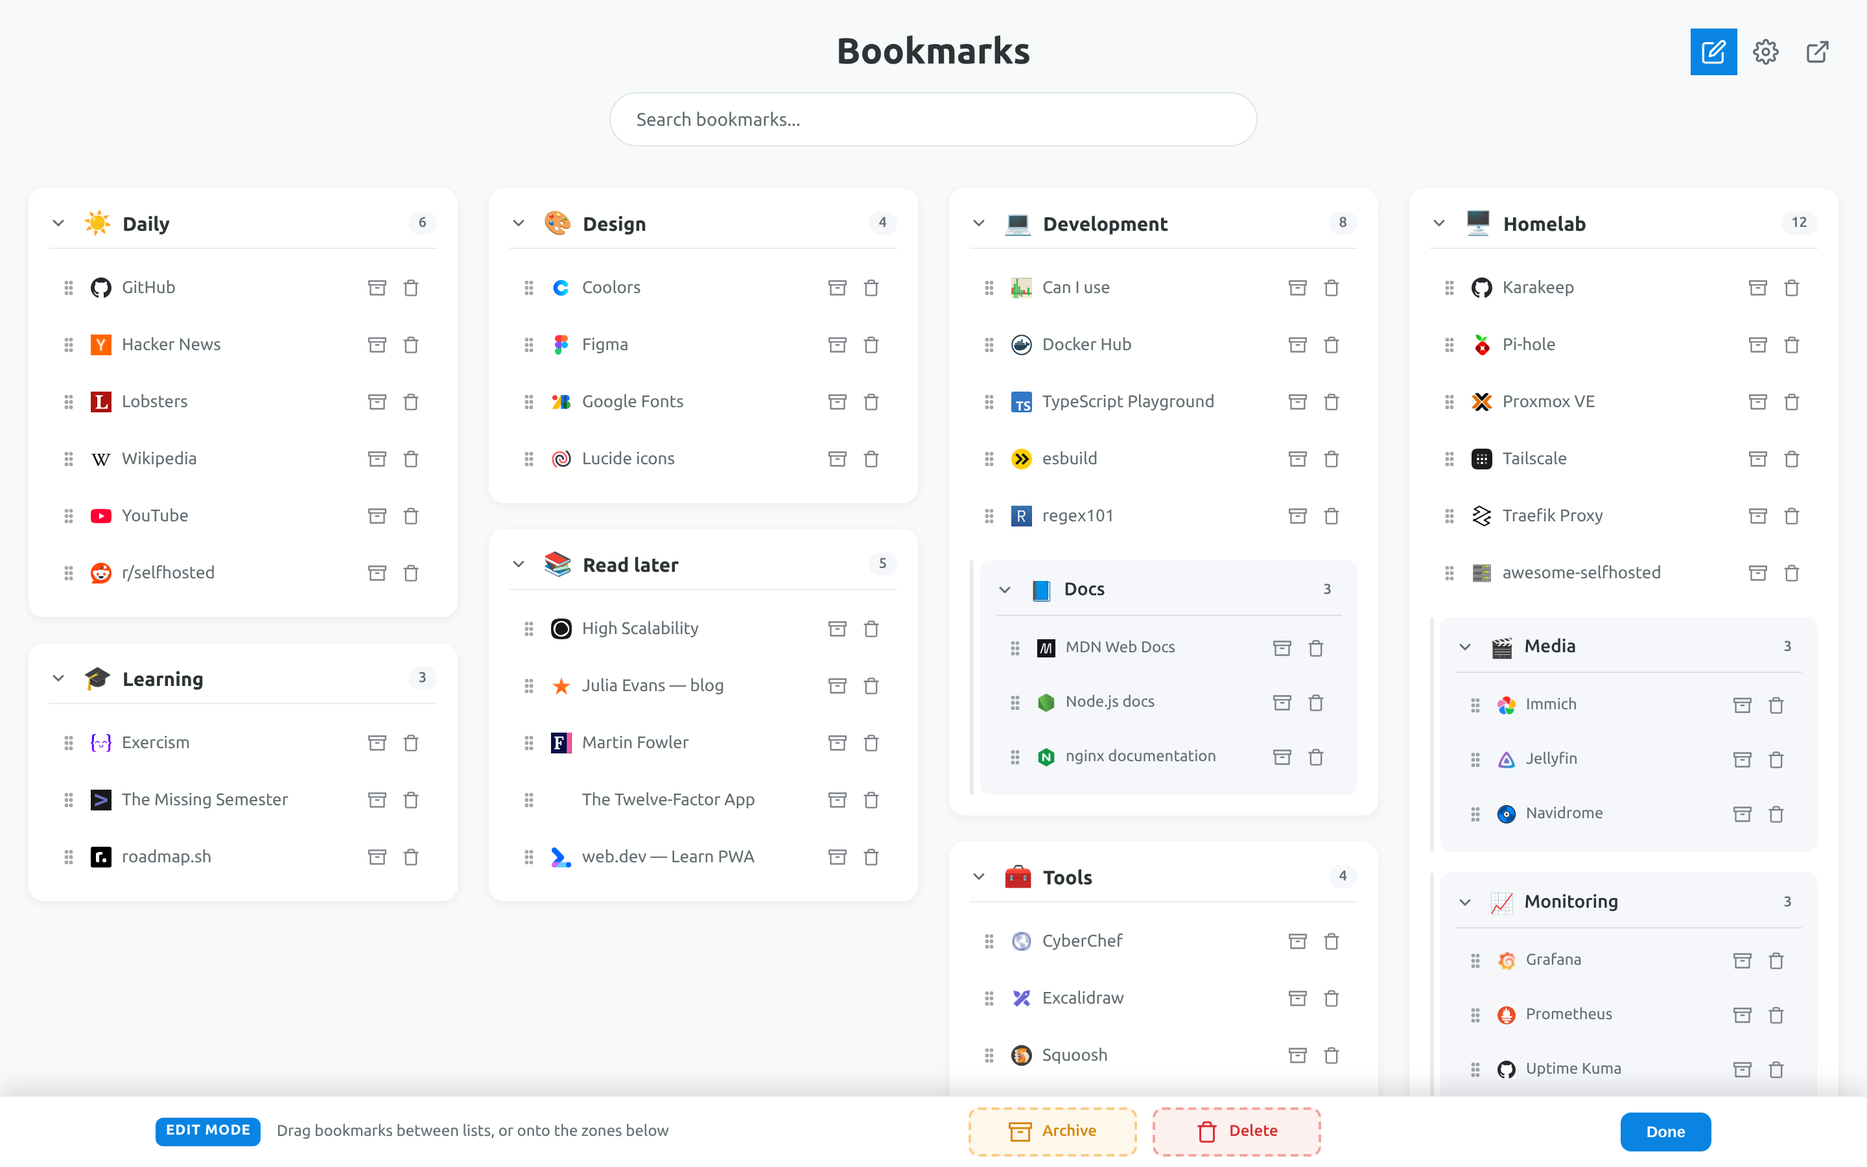
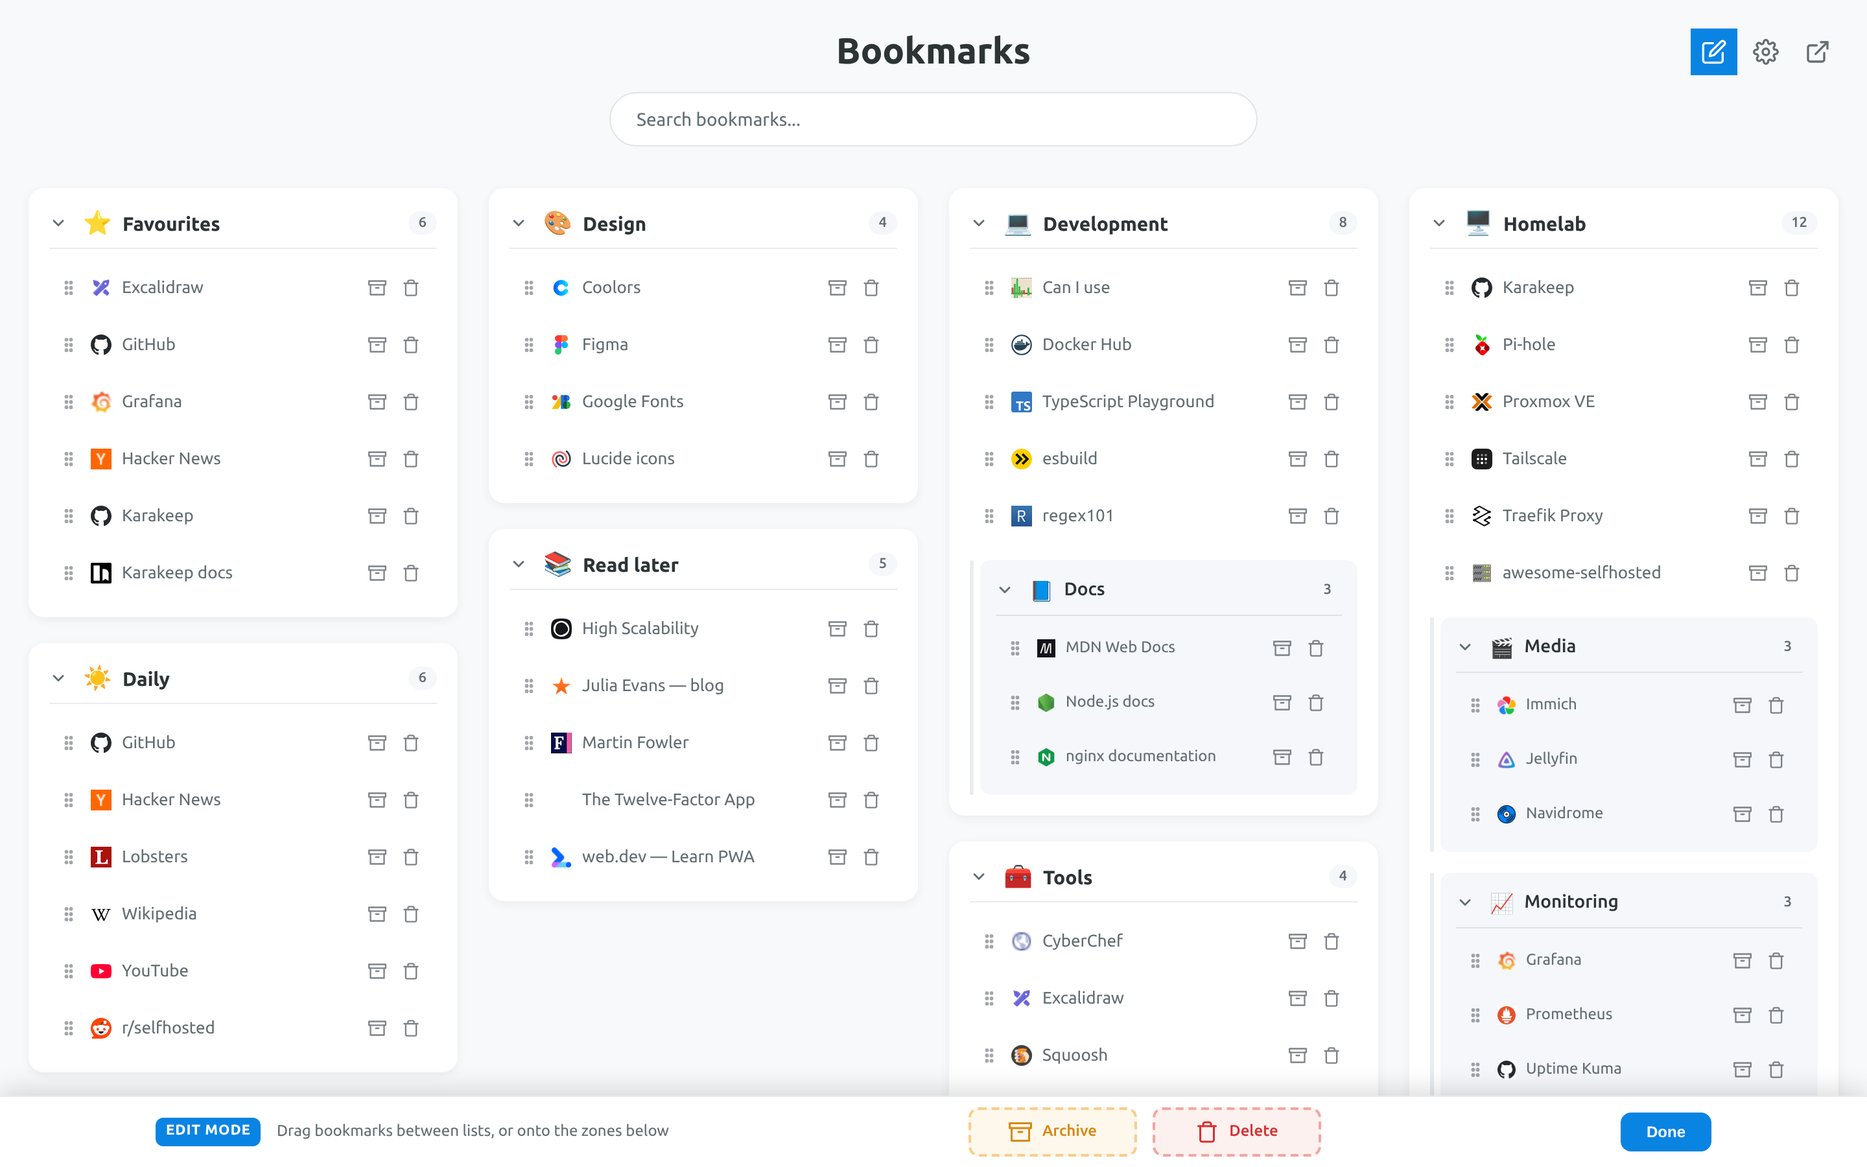
Add an optional favourites card
Favourited bookmarks are fetched with one extra request on a full refresh
(GET /bookmarks?favourited=true), only when the new "Show favourites"
setting is on, so they include bookmarks that are in no list. numFavorites
is already part of the fingerprint, so the cheap check notices changes.

They render as a virtual list of type 'favourites': pinned to the top of
the first column until the user drags it, never a drag source or target in
edit mode. The demo enables it on a visitor's first load, and the README
screenshots are regenerated.

Closes #7

diff --git a/src/demo.ts b/src/demo.ts
@@ -12,7 +12,9 @@ export const DEMO_BASE_URL = 'https://demo.karakeep.invalid';
 export const DEMO_API_KEY = 'demo';
 
 interface Seed {
-    list: string;
+    /** null: in no list — reachable only through favourites or search. */
+    list: string | null;
+    favourite?: boolean;
     title: string;
     url: string;
     tags?: string[];
@@ -33,13 +35,13 @@ const LISTS: ApiList[] = [
 ];
 
 const SEEDS: Seed[] = [
-    { list: 'daily', title: 'Hacker News', url: 'https://news.ycombinator.com', tags: ['news'] },
-    { list: 'daily', title: 'GitHub', url: 'https://github.com', tags: ['dev'] },
+    { list: 'daily', title: 'Hacker News', url: 'https://news.ycombinator.com', tags: ['news'], favourite: true },
+    { list: 'daily', title: 'GitHub', url: 'https://github.com', tags: ['dev'], favourite: true },
     { list: 'daily', title: 'r/selfhosted', url: 'https://www.reddit.com/r/selfhosted', tags: ['community'] },
     { list: 'daily', title: 'Lobsters', url: 'https://lobste.rs', tags: ['news'] },
     { list: 'daily', title: 'Wikipedia', url: 'https://en.wikipedia.org' },
     { list: 'daily', title: 'YouTube', url: 'https://www.youtube.com' },
-    { list: 'homelab', title: 'Karakeep', url: 'https://github.com/karakeep-app/karakeep', tags: ['bookmarks', 'self-hosted'], description: 'The bookmark-everything app' },
+    { list: 'homelab', title: 'Karakeep', url: 'https://github.com/karakeep-app/karakeep', tags: ['bookmarks', 'self-hosted'], description: 'The bookmark-everything app', favourite: true },
     { list: 'homelab', title: 'Proxmox VE', url: 'https://www.proxmox.com', tags: ['virtualization'] },
     { list: 'homelab', title: 'Tailscale', url: 'https://tailscale.com', tags: ['vpn', 'network'] },
     { list: 'homelab', title: 'Traefik Proxy', url: 'https://traefik.io', tags: ['reverse-proxy'] },
@@ -48,7 +50,7 @@ const SEEDS: Seed[] = [
     { list: 'homelab-media', title: 'Jellyfin', url: 'https://jellyfin.org', tags: ['media'] },
     { list: 'homelab-media', title: 'Immich', url: 'https://immich.app', tags: ['photos'] },
     { list: 'homelab-media', title: 'Navidrome', url: 'https://www.navidrome.org', tags: ['music'] },
-    { list: 'homelab-monitoring', title: 'Grafana', url: 'https://grafana.com', tags: ['monitoring'] },
+    { list: 'homelab-monitoring', title: 'Grafana', url: 'https://grafana.com', tags: ['monitoring'], favourite: true },
     { list: 'homelab-monitoring', title: 'Uptime Kuma', url: 'https://github.com/louislam/uptime-kuma', tags: ['monitoring'] },
     { list: 'homelab-monitoring', title: 'Prometheus', url: 'https://prometheus.io', tags: ['monitoring'] },
     { list: 'dev', title: 'TypeScript Playground', url: 'https://www.typescriptlang.org/play', tags: ['typescript'] },
@@ -69,12 +71,13 @@ const SEEDS: Seed[] = [
     { list: 'design', title: 'Coolors', url: 'https://coolors.co', tags: ['colors'] },
     { list: 'design', title: 'Google Fonts', url: 'https://fonts.google.com', tags: ['fonts'] },
     { list: 'tools', title: 'CyberChef', url: 'https://gchq.github.io/CyberChef/', tags: ['tools'] },
-    { list: 'tools', title: 'Excalidraw', url: 'https://excalidraw.com', tags: ['diagrams'] },
+    { list: 'tools', title: 'Excalidraw', url: 'https://excalidraw.com', tags: ['diagrams'], favourite: true },
     { list: 'tools', title: 'crontab.guru', url: 'https://crontab.guru', tags: ['cron'] },
     { list: 'tools', title: 'Squoosh', url: 'https://squoosh.app', tags: ['images'] },
     { list: 'learning', title: 'Exercism', url: 'https://exercism.org', tags: ['practice'] },
     { list: 'learning', title: 'roadmap.sh', url: 'https://roadmap.sh', tags: ['career'] },
     { list: 'learning', title: 'The Missing Semester', url: 'https://missing.csail.mit.edu', tags: ['cli'] },
+    { list: null, title: 'Karakeep docs', url: 'https://docs.karakeep.app', tags: ['docs'], favourite: true },
 ];
 
 function seedStore() {
@@ -87,10 +90,11 @@ function seedStore() {
             createdAt: new Date(Date.UTC(2026, 0, 1 + i)).toISOString(),
             title: seed.title,
             archived: false,
+            favourited: seed.favourite ?? false,
             tags: (seed.tags ?? []).map((name) => ({ id: `tag-${name}`, name, attachedBy: 'human' })),
             content: { type: 'link', url: seed.url, title: seed.title, description: seed.description ?? null },
         });
-        membership.get(seed.list)!.push(id);
+        if (seed.list) membership.get(seed.list)!.push(id);
     });
     return { bookmarks, membership };
 }
@@ -113,6 +117,7 @@ export function createDemoClient(): KarakeepClient {
             (membership.get(listId) ?? [])
                 .map((id) => bookmarks.get(id))
                 .filter((b): b is ApiBookmark => b !== undefined && !b.archived),
+        getFavouriteBookmarks: async () => [...bookmarks.values()].filter((b) => b.favourited && !b.archived),
         searchBookmarks: async (query) => {
             const q = query.toLowerCase();
             return [...bookmarks.values()].filter((b) => {

diff --git a/src/main.ts b/src/main.ts
@@ -11,6 +11,7 @@ import {
     FULL_REFETCH_TTL_MS,
     CACHE_MAX_AGE_MS,
     SCHEMA_VERSION,
+    FAVOURITES_LIST,
     REPO_URL,
 } from './config.ts';
 import { createDemoClient, DEMO_API_KEY, DEMO_BASE_URL } from './demo.ts';
@@ -149,6 +150,7 @@ function currentGrid(snapshot: Snapshot) {
     const roots = buildTree(snapshot, {
         includeSmartLists: state.prefs.includeSmartLists,
         showEmptyLists: state.editMode,
+        showFavourites: state.prefs.showFavourites,
     });
     return renderGrid(distributeColumns(roots, state.prefs), renderOptions());
 }
@@ -491,7 +493,9 @@ function currentServerId(): string {
 async function fetchEverything(client: KarakeepClient, lists: readonly List[]) {
     const results = await mapWithConcurrency(lists, FANOUT_CONCURRENCY, async (list) => ({
         listId: list.id,
-        bookmarks: (await client.getListBookmarks(list.id)).map(normalizeBookmark).filter((b) => b !== null),
+        bookmarks: (list.type === 'favourites' ? await client.getFavouriteBookmarks() : await client.getListBookmarks(list.id))
+            .map(normalizeBookmark)
+            .filter((b) => b !== null),
     }));
 
     const perList: PerList[] = [];
@@ -550,9 +554,12 @@ async function revalidate({ force = false }: { force?: boolean } = {}): Promise<
             return; // Two requests, no DOM work, done.
         }
 
-        const { perList, failed } = await fetchEverything(client, lists);
+        // The virtual favourites list rides along with the fan-out (and its failure
+        // handling) but is left out of the fingerprint: `numFavorites` already is.
+        const allLists = state.prefs.showFavourites ? [{ ...FAVOURITES_LIST }, ...lists] : lists;
+        const { perList, failed } = await fetchEverything(client, allLists);
         const next = buildSnapshot({
-            lists,
+            lists: allLists,
             perList,
             fingerprint,
             serverId: currentServerId(),
@@ -567,7 +574,7 @@ async function revalidate({ force = false }: { force?: boolean } = {}): Promise<
 
         hideBanner();
         if (failed.length) {
-            showToast(`${failed.length} of ${lists.length} lists failed to refresh.`, { kind: 'warn' });
+            showToast(`${failed.length} of ${allLists.length} lists failed to refresh.`, { kind: 'warn' });
         } else if (changed && previous) {
             showToast('Bookmarks updated.');
         }
@@ -713,6 +720,7 @@ async function onSettingsSubmit(event: Event): Promise<void> {
     const collapseListsByDefault = (document.getElementById('settingsCollapseLists') as HTMLInputElement).checked;
     const collapseSublistsByDefault = (document.getElementById('settingsCollapseSublists') as HTMLInputElement).checked;
     const showBookmarkCounts = (document.getElementById('settingsShowCounts') as HTMLInputElement).checked;
+    const showFavourites = (document.getElementById('settingsFavourites') as HTMLInputElement).checked;
     const numColumns = clampColumns((document.getElementById('settingsColumns') as HTMLInputElement).value);
 
     let baseUrl: string;
@@ -762,6 +770,7 @@ async function onSettingsSubmit(event: Event): Promise<void> {
         collapseListsByDefault,
         collapseSublistsByDefault,
         showBookmarkCounts,
+        showFavourites,
         numColumns,
     });
 
@@ -916,6 +925,16 @@ async function boot(): Promise<void> {
     state.creds = readCredentials();
     if (__DEMO__) {
         if (!state.creds?.apiKey) state.creds = { baseUrl: DEMO_BASE_URL, apiKey: DEMO_API_KEY, userId: 'demo-user' };
+        // Show off the optional favourites card on a visitor's first load only, so
+        // turning it off in settings sticks.
+        try {
+            if (!localStorage.getItem('kkhd.demo.seeded')) {
+                localStorage.setItem('kkhd.demo.seeded', '1');
+                state.prefs = updatePrefs({ showFavourites: true });
+            }
+        } catch {
+            /* storage disabled: the demo still works, just without favourites */
+        }
         showDemoNotice();
     }
     wireChrome();

diff --git a/test/render.test.ts b/test/render.test.ts
@@ -3,7 +3,7 @@ import assert from 'node:assert/strict';
 
 import { esc, safeUrl, faviconUrlFor, distributeColumns, renderGrid, countBookmarks } from '../src/render.ts';
 import { buildTree, normalizeBookmark } from '../src/model.ts';
-import { DEFAULT_COLUMNS, SCHEMA_VERSION } from '../src/config.ts';
+import { DEFAULT_COLUMNS, FAVOURITES_LIST, SCHEMA_VERSION } from '../src/config.ts';
 import type { Bookmark, ListNode, Prefs, Snapshot } from '../src/types.ts';
 
 const listNode = (id: string, bookmarks: Bookmark[] = [], children: ListNode[] = []): ListNode => ({
@@ -306,3 +306,29 @@ test('renderGrid supports editMode markup and normal mode markup', () => {
     assert.equal(editHtml.includes('data-action="delete"'), true);
 });
 
+
+test('distributeColumns pins favourites to the top of the first column', () => {
+    const favourites: ListNode = { ...listNode(FAVOURITES_LIST.id), type: 'favourites' };
+    const lists = [listNode('a'), listNode('b'), favourites, listNode('c')];
+
+    // Round-robin: favourites first in column 0, the rest unaffected by its presence.
+    const plain = distributeColumns(lists, layout({ numColumns: 2 }));
+    assert.deepEqual(plain.map((c) => c.map((l) => l.id)), [[FAVOURITES_LIST.id, 'a', 'c'], ['b']]);
+
+    // A saved layout that predates favourites: still pinned to the top.
+    const saved = distributeColumns(lists, layout({ numColumns: 2, columnLayout: { '0': ['b'], '1': ['a', 'c'] } }));
+    assert.deepEqual(saved.map((c) => c.map((l) => l.id)), [[FAVOURITES_LIST.id, 'b'], ['a', 'c']]);
+
+    // Once the user has dragged it, the saved position wins.
+    const moved = distributeColumns(
+        lists,
+        layout({ numColumns: 2, columnLayout: { '0': ['b'], '1': ['a', FAVOURITES_LIST.id, 'c'] } })
+    );
+    assert.deepEqual(moved.map((c) => c.map((l) => l.id)), [['b'], ['a', FAVOURITES_LIST.id, 'c']]);
+});
+
+test('favourites render with their own list type so drag and drop can refuse them', () => {
+    const favourites: ListNode = { ...listNode(FAVOURITES_LIST.id, [bm('x', 'X', 'https://x.example')]), type: 'favourites' };
+    const { html } = renderGrid([[favourites]], { editMode: true });
+    assert.match(html, /data-list-type="favourites"/);
+});

diff --git a/src/model.ts b/src/model.ts
@@ -133,8 +133,11 @@ export function sortBookmarks(bookmarks: readonly Bookmark[]): Bookmark[] {
  *    that ran inside both the root filter and every renderList call;
  *  - a `visited` guard, because a parentId cycle previously hung the browser.
  */
-export function buildTree(snapshot: Snapshot, options: { includeSmartLists?: boolean; showEmptyLists?: boolean } = {}): ListNode[] {
-    const { includeSmartLists = false, showEmptyLists = false } = options;
+export function buildTree(
+    snapshot: Snapshot,
+    options: { includeSmartLists?: boolean; showEmptyLists?: boolean; showFavourites?: boolean } = {}
+): ListNode[] {
+    const { includeSmartLists = false, showEmptyLists = false, showFavourites = false } = options;
     const bookmarksById = new Map(snapshot.bookmarks.map((b) => [b.id, b]));
     const nodes = new Map<string, ListNode>();
 
@@ -142,6 +145,8 @@ export function buildTree(snapshot: Snapshot, options: { includeSmartLists?: boo
         // Smart lists have no rows in `bookmarksInLists`, so the SQL build could never
         // show them. Rendering them by default would be a visible change.
         if (!includeSmartLists && list.type === 'smart') continue;
+        // A cached snapshot can still hold the list after the preference is turned off.
+        if (!showFavourites && list.type === 'favourites') continue;
 
         const bookmarks: Bookmark[] = [];
         for (const id of snapshot.membership[list.id] ?? []) {

diff --git a/src/dnd.ts b/src/dnd.ts
@@ -123,6 +123,11 @@ export function initSortable(container: Element, onChange: () => void): void {
     }
 }
 
+function acceptsBookmarks(el: HTMLElement): boolean {
+    const type = el.dataset['listType'];
+    return type !== 'smart' && type !== 'favourites';
+}
+
 export interface BookmarkDndHandlers {
     onMoveBookmark: (bookmarkId: string, fromListId: string, toListId: string) => void;
     onArchiveBookmark: (bookmarkId: string, fromListId: string) => void;
@@ -133,13 +138,15 @@ export function initBookmarkSortables(container: Element, handlers: BookmarkDndH
     destroyBookmarkSortables();
 
     for (const grid of container.querySelectorAll<HTMLElement>('.bookmark-grid')) {
-        if (grid.dataset['listType'] === 'smart') continue;
+        // Smart lists and the favourites list are computed, not curated: nothing can
+        // be dragged into or out of them.
+        if (!acceptsBookmarks(grid)) continue;
         bookmarkInstances.push(
             Sortable.create(grid, {
                 group: {
                     name: 'bookmarks',
                     pull: true,
-                    put: (to) => to.el.dataset['listType'] !== 'smart',
+                    put: (to) => acceptsBookmarks(to.el),
                 },
                 animation: 150,
                 ghostClass: 'bookmark-ghost',

diff --git a/src/api.ts b/src/api.ts
@@ -91,6 +91,7 @@ export interface KarakeepClient {
     getStats(): Promise<ApiStats>;
     getLists(): Promise<ApiList[]>;
     getListBookmarks(listId: string): Promise<ApiBookmark[]>;
+    getFavouriteBookmarks(): Promise<ApiBookmark[]>;
     searchBookmarks(query: string): Promise<ApiBookmark[]>;
     addBookmarkToList(listId: string, bookmarkId: string): Promise<void>;
     removeBookmarkFromList(listId: string, bookmarkId: string): Promise<void>;
@@ -201,6 +202,19 @@ export function createClient({ baseUrl, apiKey }: { baseUrl: string; apiKey: str
             return drain(
                 `/lists/${encodeURIComponent(listId)}/bookmarks`,
                 new URLSearchParams({ limit: String(PAGE_LIMIT), includeContent: 'false' }),
+                MAX_PAGES_PER_LIST
+            );
+        },
+
+        getFavouriteBookmarks() {
+            return drain(
+                '/bookmarks',
+                new URLSearchParams({
+                    favourited: 'true',
+                    archived: 'false',
+                    limit: String(PAGE_LIMIT),
+                    includeContent: 'false',
+                }),
                 MAX_PAGES_PER_LIST
             );
         },

diff --git a/src/render.ts b/src/render.ts
@@ -171,6 +171,21 @@ function renderList(list: ListNode, options: Required<RenderOptions>, sink: Book
  * appended across columns, matching the previous behaviour.
  */
 export function distributeColumns(lists: readonly ListNode[], prefs: Pick<Prefs, 'columnLayout' | 'columnOrder' | 'numColumns'>): ListNode[][] {
+    // Favourites are pinned to the top of the first column unless the saved layout
+    // says otherwise, i.e. until the user has dragged the card somewhere.
+    const favourites = lists.find((l) => l.type === 'favourites');
+    const placedByLayout = Object.values(prefs.columnLayout ?? {}).some((ids) => ids.includes(favourites?.id ?? ''));
+    if (!favourites || placedByLayout) return distribute(lists, prefs);
+
+    const columns = distribute(
+        lists.filter((l) => l !== favourites),
+        prefs
+    );
+    columns[0]!.unshift(favourites);
+    return columns;
+}
+
+function distribute(lists: readonly ListNode[], prefs: Pick<Prefs, 'columnLayout' | 'columnOrder' | 'numColumns'>): ListNode[][] {
     const count = Math.max(1, prefs.numColumns);
     const columns: ListNode[][] = Array.from({ length: count }, () => []);
 

diff --git a/test/model.test.ts b/test/model.test.ts
@@ -12,7 +12,7 @@ import {
 } from '../src/model.ts';
 
 import type { ApiBookmark, Bookmark, List, Snapshot } from '../src/types.ts';
-import { SCHEMA_VERSION } from '../src/config.ts';
+import { FAVOURITES_LIST, SCHEMA_VERSION } from '../src/config.ts';
 
 interface LinkOpts {
     title?: string;
@@ -236,3 +236,16 @@ test('buildTree preserves empty manual lists when showEmptyLists is true', () =>
     assert.equal(editModeTree[0]?.id, 'm');
 });
 
+
+test('buildTree shows the favourites list only when asked to', () => {
+    const fav: List = { ...FAVOURITES_LIST };
+    const work: List = { id: 'work', name: 'Work', icon: null, parentId: null, type: 'manual' };
+    const a = norm(link('a'));
+    const snap = snapshotOf([fav, work], { [fav.id]: ['a'], work: ['a'] }, [a]);
+
+    assert.deepEqual(buildTree(snap).map((n) => n.id), ['work']);
+    assert.deepEqual(
+        buildTree(snap, { showFavourites: true }).map((n) => n.id).sort(),
+        [fav.id, 'work'].sort()
+    );
+});

diff --git a/test/demo.test.ts b/test/demo.test.ts
@@ -40,3 +40,16 @@ test('each demo client starts from a fresh store', async () => {
     const b = createDemoClient();
     assert.ok((await b.getListBookmarks('daily')).some((x) => x.id === first!.id));
 });
+
+test('demo favourites include a bookmark that is in no list', async () => {
+    const client = createDemoClient();
+    const favourites = await client.getFavouriteBookmarks();
+    assert.ok(favourites.length >= 3);
+    assert.ok(favourites.every((b) => b.favourited));
+
+    const listed = new Set<string>();
+    for (const list of await client.getLists()) {
+        for (const b of await client.getListBookmarks(list.id)) listed.add(b.id);
+    }
+    assert.ok(favourites.some((b) => !listed.has(b.id)), 'expected an unlisted favourite');
+});

diff --git a/src/config.ts b/src/config.ts
@@ -18,6 +18,17 @@ export const SEARCH_RESULT_LIMIT = 50;
 export const FULL_REFETCH_TTL_MS = 15 * 60 * 1000;
 export const CACHE_MAX_AGE_MS = 7 * 24 * 60 * 60 * 1000;
 
+// Favourites are shown as a virtual list: one extra request on a full refresh,
+// pinned to the top of the first column until the user drags it elsewhere. The id
+// cannot collide with Karakeep's (cuid2: lowercase alphanumerics, no colon).
+export const FAVOURITES_LIST = {
+    id: 'kkhd:favourites',
+    name: 'Favourites',
+    icon: '⭐',
+    parentId: null,
+    type: 'favourites',
+} as const;
+
 export const KEYS = {
     creds: 'kkhd.credentials',
     prefs: 'kkhd.prefs',

diff --git a/src/ui.ts b/src/ui.ts
@@ -130,6 +130,10 @@ export function renderSettings({ baseUrl, hasKey, prefs, status }: SettingsState
                     <span>Show tags on bookmarks</span>
                 </label>
                 <label class="settings-check">
+                    <input type="checkbox" id="settingsFavourites" ${prefs.showFavourites ? 'checked' : ''}>
+                    <span>Show favourites</span>
+                </label>
+                <label class="settings-check">
                     <input type="checkbox" id="settingsSmart" ${prefs.includeSmartLists ? 'checked' : ''}>
                     <span>Include smart lists</span>
                 </label>

diff --git a/src/types.ts b/src/types.ts
@@ -25,7 +25,9 @@ export interface ApiStats {
     bookmarksByType?: { link?: number; text?: number; asset?: number };
 }
 
-export type ListKind = 'manual' | 'smart';
+// 'favourites' is not a Karakeep list type: it marks the dashboard's own virtual
+// list of favourited bookmarks (see FAVOURITES_LIST in config.ts).
+export type ListKind = 'manual' | 'smart' | 'favourites';
 
 export interface ApiList {
     id: string;
@@ -140,6 +142,7 @@ export interface Prefs {
     collapseListsByDefault: boolean;
     collapseSublistsByDefault: boolean;
     showBookmarkCounts: boolean;
+    showFavourites: boolean;
 }
 
 export interface ErrorInfo {
